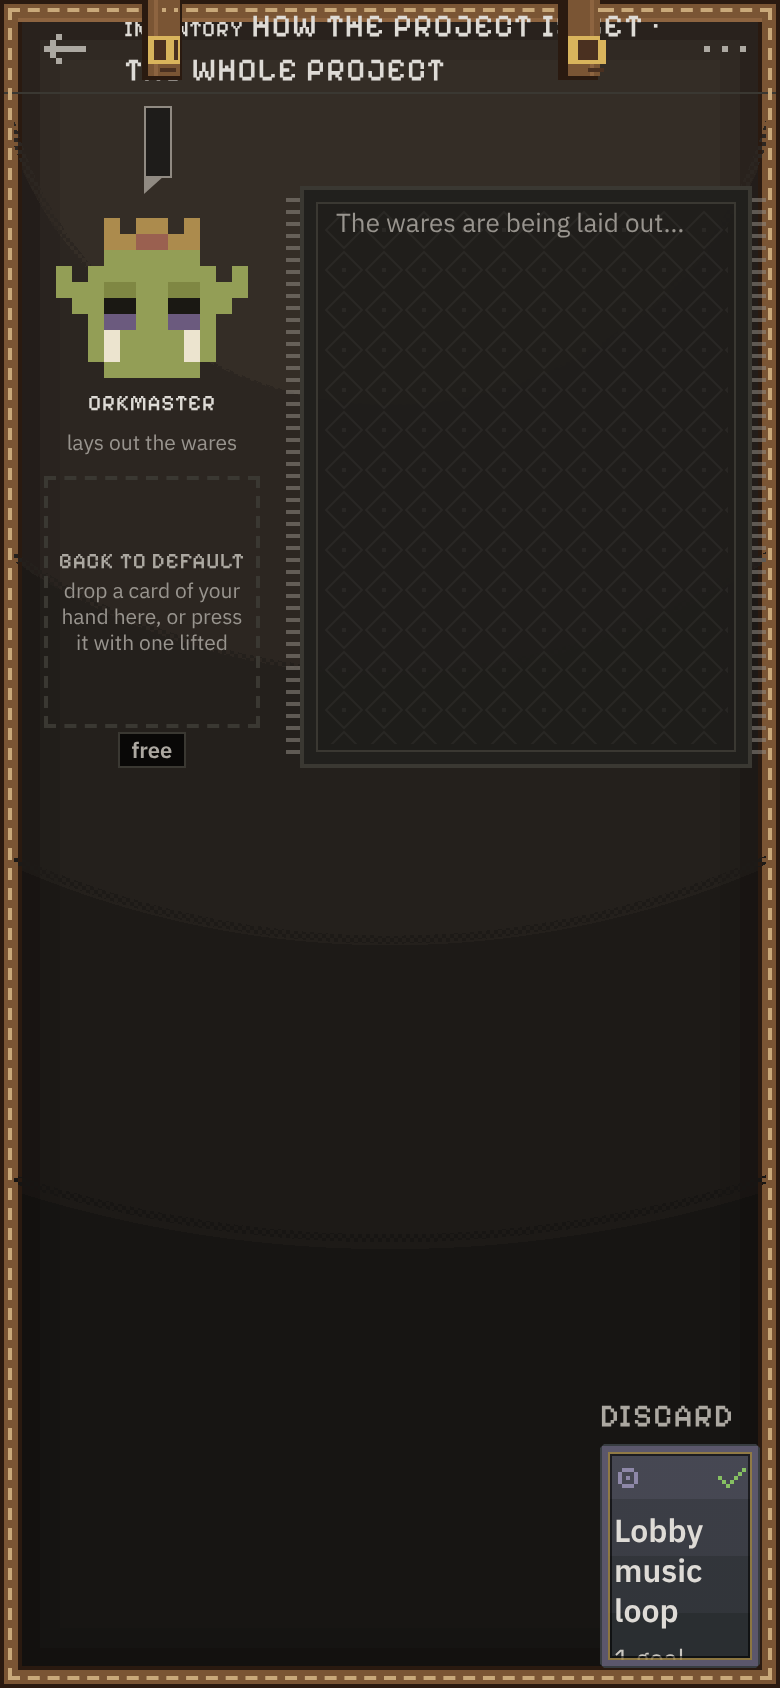
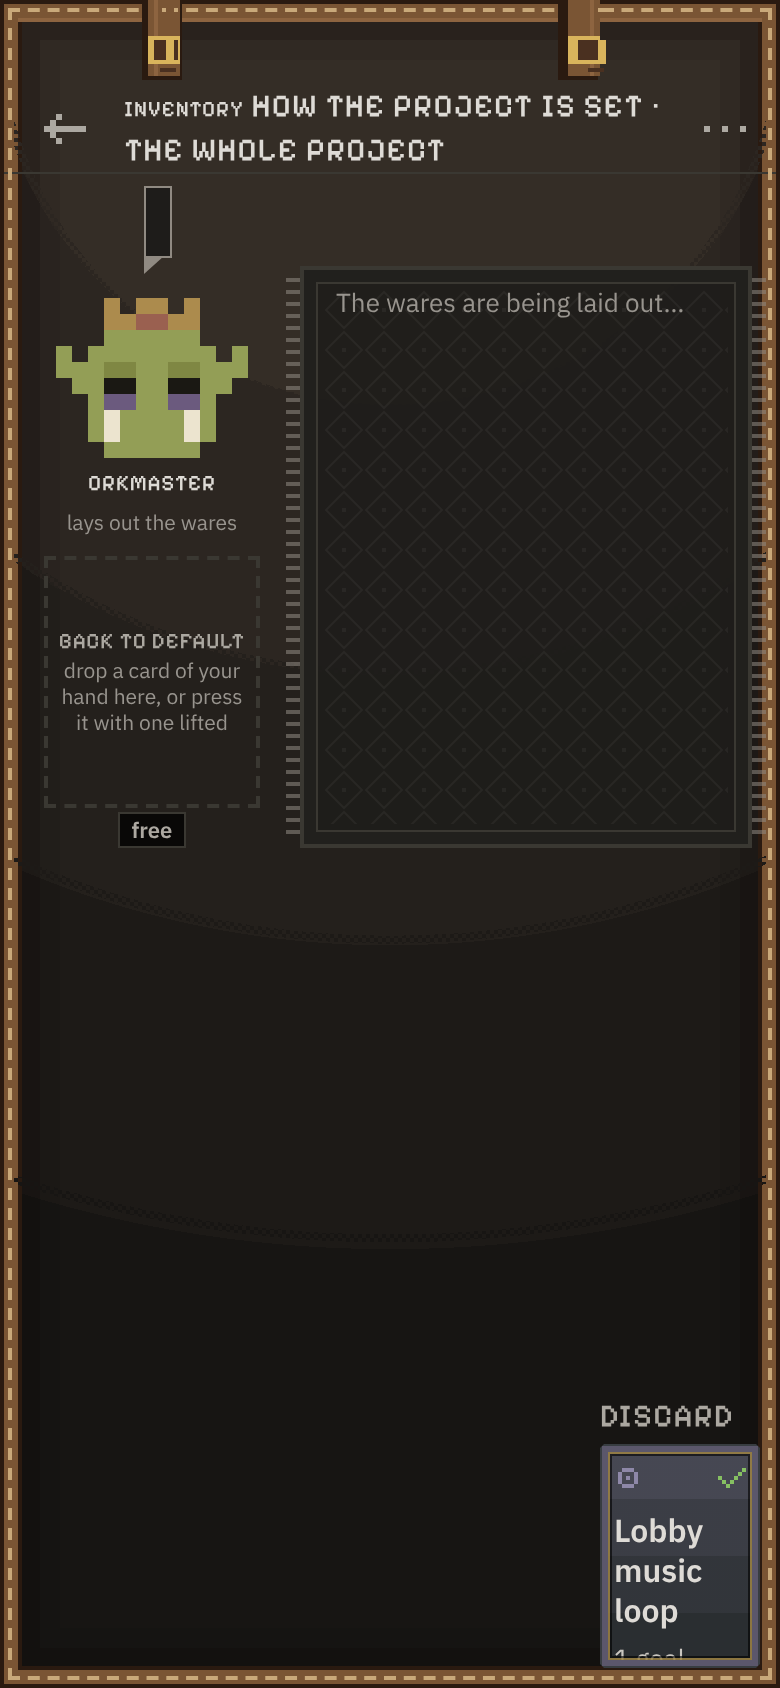
Spec 160 K: the phone's table wears the shown goal's party felt; the stall's head lies below the leather's straps
Claude-Session: https://claude.ai/code/session_01MCU3dpbKvLjgD4LJ6vm5TH

diff --git a/orkboard/gui/static/js/hand/upright.js b/orkboard/gui/static/js/hand/upright.js
@@ -20,6 +20,16 @@ import { Row } from "./uprow.js";
 import { Top } from "./uptop.js";
 import { feltOf } from "../table/felt.js";
 import { presenceNow } from "../table/presence.js";
+import { partiesAll } from "../table/data.js";
+import { routeOf } from "./upway.js";
+
+/** The felt the phone's table wears (spec 160 K, decisions §275.3): the party shown, the party of the goal shown (the one at work in its route, else its first, else the goal's own) or of the card's leader; the Orkmaster's wood when none is. */
+function feltOfLook(look) {
+  if (look.kind === "party") return feltOf(look.g);
+  const legs = look.node ? routeOf(look.node) : [], at = legs.find((r) => r.state === "now") || legs[0], stop = look.entry?.stops?.[0];
+  const slug = at?.slug || look.node?.goal || stop?.row?.goal || stop?.row?.party || "";
+  return (slug && feltOf(partiesAll().find((g) => g.slug === slug))) || "orkmaster";
+}
 
 /** The hand on a phone. `root`: the hand's element ref (the keys), `stacks`: data.js `stacksOf`, `plus`: opens the field. */
 export function Upright({ root, stacks, plus }) {
@@ -31,7 +41,7 @@ export function Upright({ root, stacks, plus }) {
     else if (look.kind === "goal" && had.current === look.slug && picked.value === look.slug) { had.current = ""; picked.value = ""; if (tab.value !== ORKMASTER) openTab(ORKMASTER); }       // its last card was answered: the next entry comes
     else had.current = "";
   }, [look.kind, look.slug, look.entry?.key]);
-  return html`<footer ref=${root} class=${cls("hand hand-up ork-table", { "is-out": presenceNow()?.here === false })} data-party=${look.kind === "party" ? feltOf(look.g) : "orkmaster"} aria-label="The hand" data-upright="1" data-empty=${look.kind === "none" ? "1" : undefined} data-typing=${typing ? "1" : undefined}>
+  return html`<footer ref=${root} class=${cls("hand hand-up ork-table", { "is-out": presenceNow()?.here === false })} data-party=${feltOfLook(look)} aria-label="The hand" data-upright="1" data-empty=${look.kind === "none" ? "1" : undefined} data-typing=${typing ? "1" : undefined}>
     <${Notice} />
     <${Top} />
     <${Look} look=${look} entries=${entries} typing=${typing} />

diff --git a/orkboard/gui/static/js/table/stall.css b/orkboard/gui/static/js/table/stall.css
@@ -97,3 +97,7 @@
   .stall-face, .stall-service__card { transition: none; }
   .stall-ware:not(.is-mine):not(.is-locked):hover .stall-face, .stall-ware:not(.is-mine):not(.is-locked):focus-within .stall-face, .stall-service:hover .stall-service__card, .stall-service.is-over .stall-service__card { transform: none; }
 }
+
+/* the leather's straps and buckles lie over the pane's top 40 px (orkUI `.ork-leather::after`): the head with the title starts below them, on the phone and the desktop alike (spec 160 K, decisions §272.1) */
+.table-pane.ork-leather > .table-title { margin-top: calc(var(--ork-8) + var(--ork-6)); }
+@media (min-width: 760px) { .table-pane.ork-leather > .table-title.is-bare { margin-top: 0; } }      /* the bare head is only the menu in the corner, between the straps */

diff --git a/tests/test_presence_chain_browser.py b/tests/test_presence_chain_browser.py
@@ -26,8 +26,8 @@ AWAY = {"here": False, "until": "2026-11-05T19:00", "held": False}
 class DoorHost(HandHost):
     """The hand's host with the presence: `presence` in the snapshot (none as an older host), and `presence.set` turning it as the real host does (the press holds the other state)."""
 
-    def __init__(self, presence=HERE):
-        super().__init__()
+    def __init__(self, presence=HERE, **kw):
+        super().__init__(**kw)
         self.presence = copy.deepcopy(presence)
 
     def snapshot(self):
@@ -217,11 +217,11 @@ def test_the_phones_table_wears_the_felt_and_away_puts_it_out(gui):
         hand = pg.locator(".hand-up")
         hand.wait_for(timeout=WAIT_MS)
         cls = hand.get_attribute("class")
-        assert "ork-table" in cls and "is-out" not in cls and hand.get_attribute("data-party") == "orkmaster"
+        assert "ork-table" in cls and "is-out" not in cls and hand.get_attribute("data-party") == "ork", "the first goal shown is Tech's"
         assert "radial-gradient" in hand.evaluate("e => getComputedStyle(e).backgroundImage"), "the felt's light is orkUI's steps"
         pg.locator(".up-top .presence-chain").click()
         pg.wait_for_function("() => document.querySelector('.hand-up').classList.contains('is-out')", timeout=WAIT_MS)
-        flat = pg.evaluate("() => { const e = document.createElement('i'); e.style.backgroundColor = 'var(--ork-felt-orkmaster-out)'; document.body.append(e); const c = getComputedStyle(e).backgroundColor; e.remove(); return c; }")
+        flat = pg.evaluate("() => { const e = document.createElement('i'); e.style.backgroundColor = 'var(--ork-felt-ork-out)'; document.body.append(e); const c = getComputedStyle(e).backgroundColor; e.remove(); return c; }")
         assert hand.evaluate("e => getComputedStyle(e).backgroundImage") == "none" and hand.evaluate("e => getComputedStyle(e).backgroundColor") == flat, "away: the felt flat and darker"
     finally:
         pg.context.close()
@@ -246,3 +246,40 @@ def test_the_phones_backpack_opens_the_stall_over_the_hand_and_the_way_back_clos
     finally:
         pg.context.close()
     assert not errors, "\n".join(errors)
+
+
+def test_the_phones_table_wears_the_shown_goals_party_felt_and_the_wood_when_nothing_is_shown(gui):
+    """Spec 160 K (decisions §275.3): a Tech goal shown -> Tech's race (ork); nothing shown -> the Orkmaster's wood."""
+    pg, errors = start(gui, "phone", DoorHost(HERE))
+    try:
+        pg.locator('.up-look[data-look="goal"]').wait_for(timeout=WAIT_MS)
+        assert pg.locator(".up-look").get_attribute("data-goal") == "timer", "the hand's first goal is Tech's"
+        assert pg.locator(".hand-up").get_attribute("data-party") == "ork"
+    finally:
+        pg.context.close()
+    assert not errors, "\n".join(errors)
+    pg, errors = start(gui, "phone", DoorHost(HERE, empty=True))
+    try:
+        pg.locator(".up-none").wait_for(timeout=WAIT_MS)
+        assert pg.locator(".hand-up").get_attribute("data-party") == "orkmaster"
+    finally:
+        pg.context.close()
+    assert not errors, "\n".join(errors)
+
+
+def test_the_stalls_title_lies_below_the_leathers_straps_on_the_phone_and_the_desktop(gui):
+    for width, opener in (("phone", ".up-top .stall-pack"), ("wide", "[data-backpack]")):
+        pg, errors = start(gui, width, DoorHost(HERE))
+        try:
+            pg.locator(opener).first.click()
+            pg.locator(".stall-merchant").wait_for(state="visible", timeout=WAIT_MS)
+            pg.wait_for_timeout(300)
+            pane = pg.locator(".table-pane.ork-leather").bounding_box()
+            title = pg.locator(".stall-title").first.bounding_box()
+            if title is None:
+                assert width == "wide", "the phone's head shows its title"          # on the desktop a bare head (nothing picked) shows no title, only the menu in the corner
+                continue
+            assert title["y"] >= pane["y"] + 40, (width, title, pane)
+        finally:
+            pg.context.close()
+        assert not errors, "\n".join(errors)
